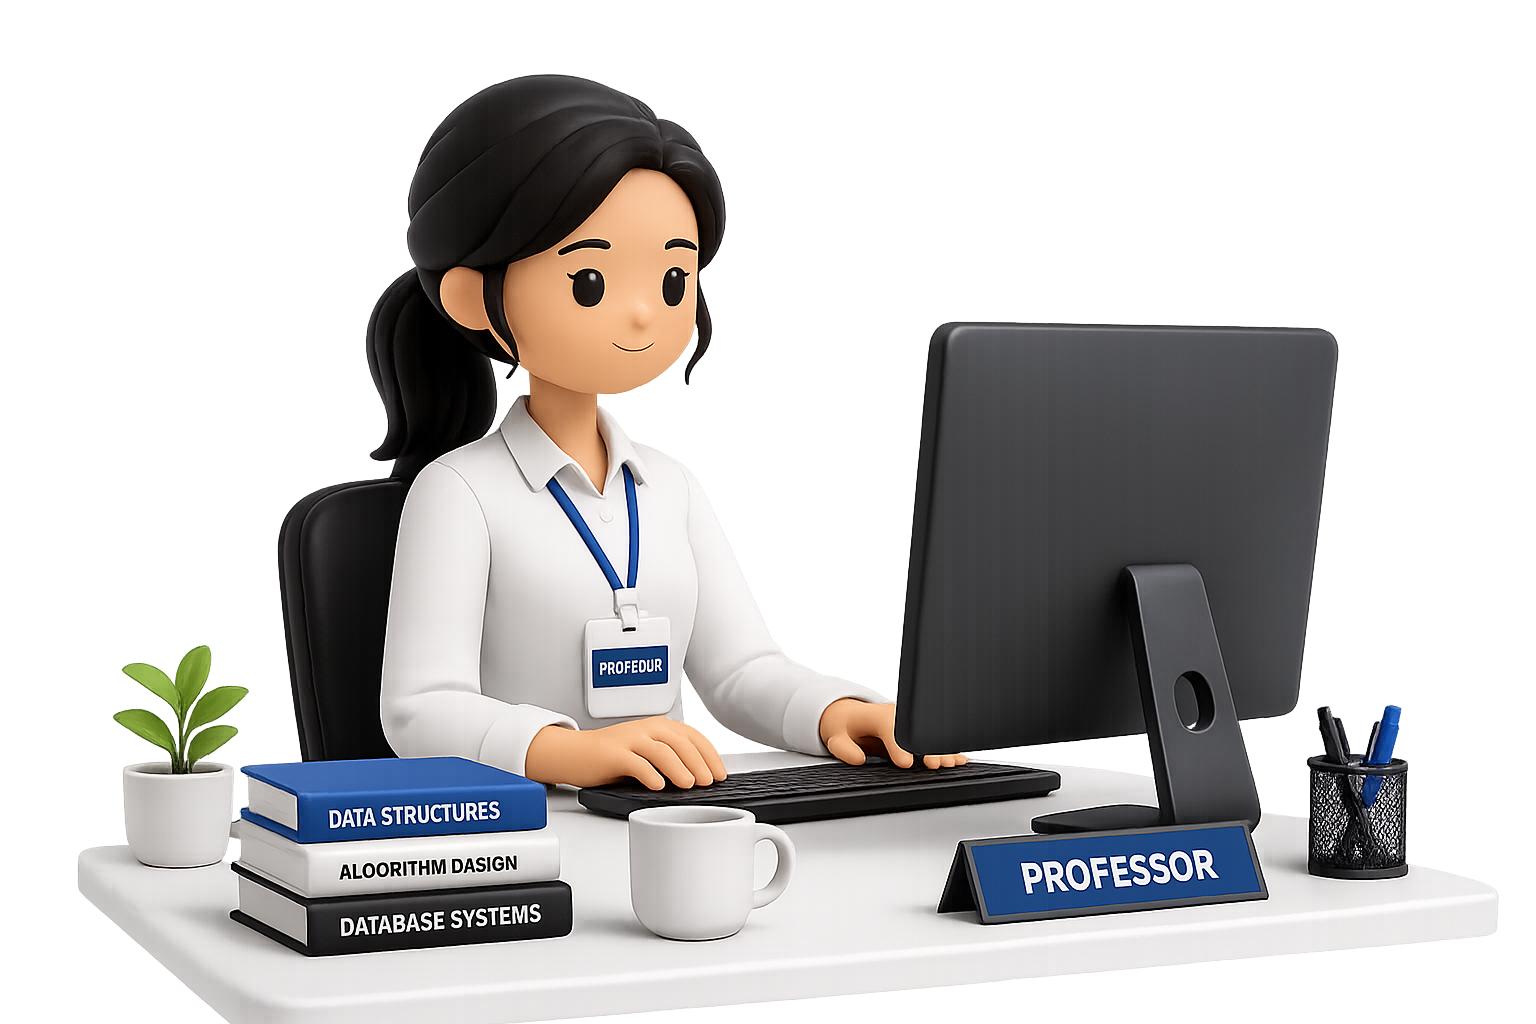
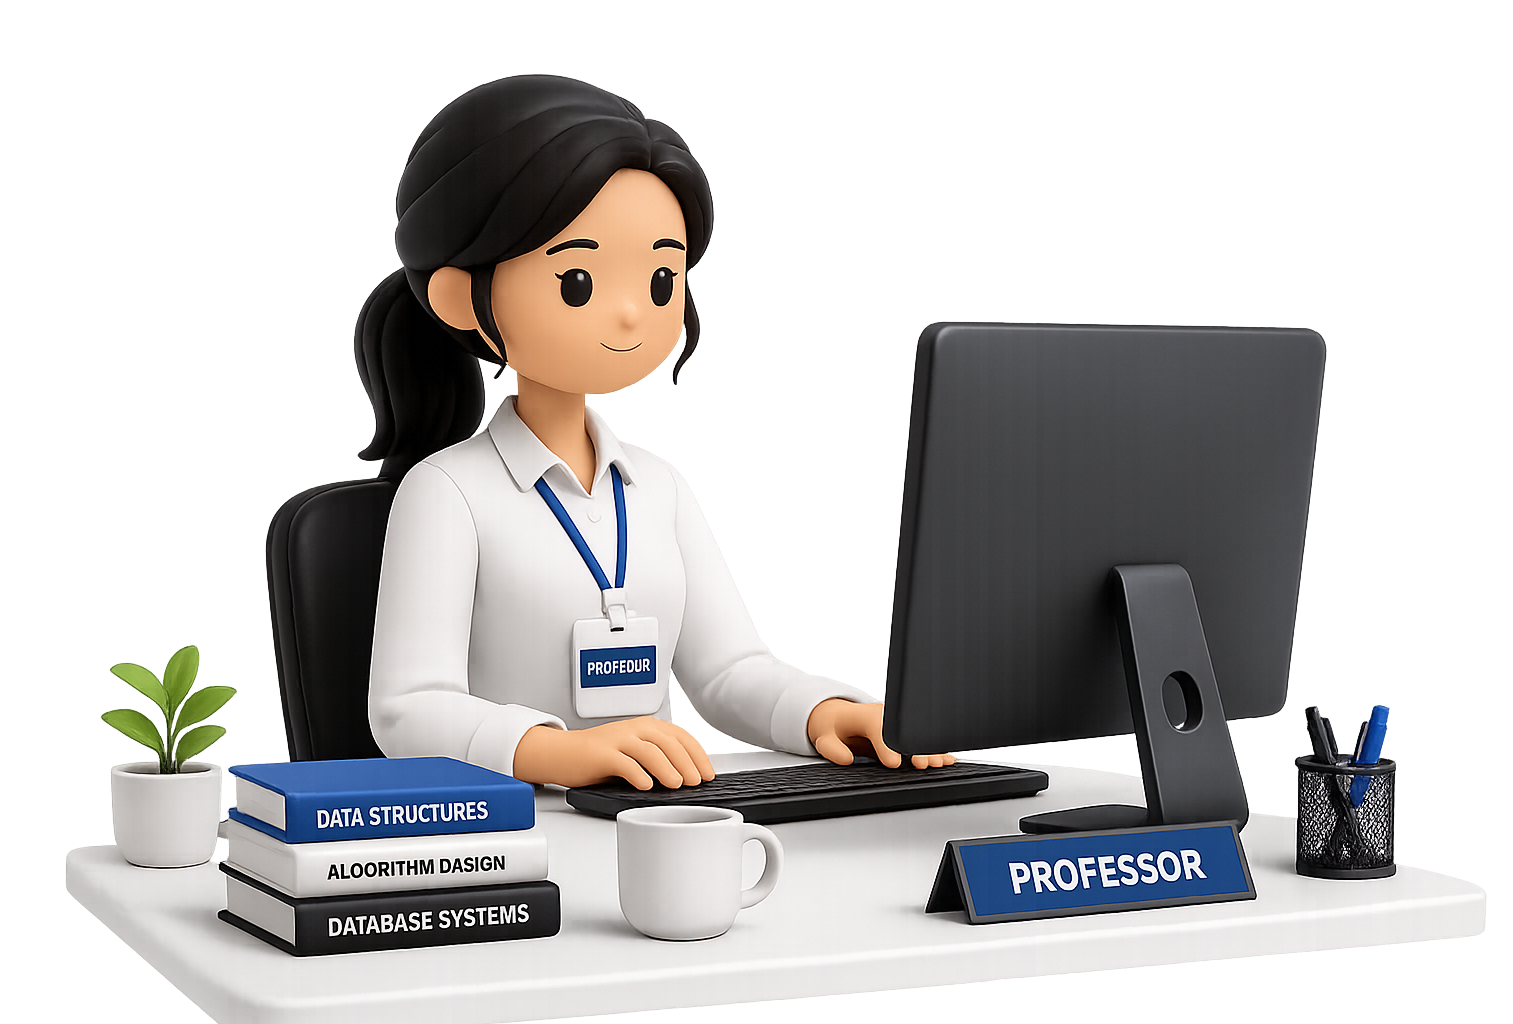
Feat: Crop transparent PNG paddings and expand Hero 3D student character to massive size

diff --git a/portal/app/page.tsx b/portal/app/page.tsx
@@ -141,7 +141,7 @@ export default function LandingPage() {
       </header>
 
       {/* Main Full-Width Content Container */}
-      <main className="relative z-10 max-w-[1700px] mx-auto px-6 lg:px-12 xl:px-16 py-12 space-y-28">
+      <main className="relative z-10 max-w-[1750px] mx-auto px-6 lg:px-12 xl:px-16 py-10 space-y-28">
         
         {/* HERO SECTION - 3D Character Split Layout */}
         <section className="grid grid-cols-1 lg:grid-cols-12 gap-8 items-center pt-2 relative">
@@ -216,16 +216,20 @@ export default function LandingPage() {
             </div>
           </div>
 
-          {/* Hero Center Column - 3D Main Student Character (LARGE Hero Size) */}
-          <div className="lg:col-span-3 flex justify-center items-center relative z-20 min-h-[420px] lg:min-h-[550px]">
-            {/* Ambient Background Glow behind Character */}
-            <div className="absolute inset-0 bg-blue-600/25 rounded-full blur-3xl pointer-events-none" />
+          {/* Hero Center Column - HUGE 3D Student Character */}
+          <div className="lg:col-span-3 flex flex-col justify-center items-center relative z-20 min-h-[480px] lg:min-h-[620px]">
+            {/* Ambient Background Radial Glow behind Character */}
+            <div className="absolute inset-0 bg-blue-600/30 rounded-full blur-[100px] pointer-events-none scale-125" />
+            
             {/* eslint-disable-next-line @next/next/no-img-element */}
             <img
               src="/images/3d/3d_character_1.png"
               alt="3D Hero Student at Laptop"
-              className="w-full max-w-[480px] lg:max-w-[580px] object-contain drop-shadow-[0_30px_45px_rgba(37,99,235,0.45)] hover:scale-105 transition-transform duration-500 relative z-10"
+              className="w-[125%] max-w-[580px] lg:max-w-[720px] object-contain drop-shadow-[0_35px_50px_rgba(37,99,235,0.5)] hover:scale-110 transition-transform duration-500 relative z-10 -my-8"
             />
+
+            {/* Grounded 3D Shadow Ring */}
+            <div className="w-[80%] h-8 bg-blue-500/20 rounded-[100%] blur-xl pointer-events-none -mt-4 relative z-0" />
           </div>
 
           {/* Hero Right Column - Live Workspace Card Preview */}

diff --git a/portal/scripts/fast_trim.py b/portal/scripts/fast_trim.py
@@ -1,0 +1,36 @@
+import os
+import glob
+import numpy as np
+from PIL import Image
+
+dir_path = r"c:\Users\mdjib\Desktop\legezt\portal\public\images\3d"
+files = sorted(glob.glob(os.path.join(dir_path, "*.png")))
+
+print(f"Fast trimming {len(files)} 3D character images...")
+
+for f in files:
+    img = Image.open(f)
+    if img.mode != "RGBA":
+        img = img.convert("RGBA")
+    
+    arr = np.array(img)
+    alpha = arr[:, :, 3]
+    
+    # Find bounding box of non-transparent pixels
+    nonzero_coords = np.argwhere(alpha > 10)
+    if len(nonzero_coords) > 0:
+        min_y, min_x = nonzero_coords.min(axis=0)
+        max_y, max_x = nonzero_coords.max(axis=0)
+        
+        # Add small 4px padding so edges don't touch pixel boundary
+        min_y = max(0, min_y - 4)
+        min_x = max(0, min_x - 4)
+        max_y = min(arr.shape[0], max_y + 4)
+        max_x = min(arr.shape[1], max_x + 4)
+        
+        cropped_arr = arr[min_y:max_y, min_x:max_x]
+        cropped_img = Image.fromarray(cropped_arr, mode="RGBA")
+        cropped_img.save(f, "PNG", compress_level=1)
+        print(f"Trimmed {os.path.basename(f)} -> new size: {cropped_img.size}")
+
+print("Fast trim complete!")

diff --git a/portal/scripts/trim_all.py b/portal/scripts/trim_all.py
@@ -1,0 +1,23 @@
+import os
+import glob
+from PIL import Image
+
+dir_path = r"c:\Users\mdjib\Desktop\legezt\portal\public\images\3d"
+files = sorted(glob.glob(os.path.join(dir_path, "*.png")))
+
+print("Trimming alpha boundaries for all 17 PNGs...")
+
+for f in files:
+    img = Image.open(f)
+    if img.mode != "RGBA":
+        img = img.convert("RGBA")
+    
+    # Get alpha bounding box
+    bbox = img.getbbox()
+    if bbox:
+        # Crop tight to non-zero alpha region
+        cropped = img.crop(bbox)
+        cropped.save(f, "PNG")
+        print(f"Trimmed {os.path.basename(f)}: Original={img.size} -> Cropped={cropped.size}")
+
+print("Trim completed!")

diff --git a/portal/scripts/safe_trim.py b/portal/scripts/safe_trim.py
@@ -1,0 +1,19 @@
+import os
+import glob
+from PIL import Image
+
+dir_path = r"c:\Users\mdjib\Desktop\legezt\portal\public\images\3d"
+files = sorted(glob.glob(os.path.join(dir_path, "*.png")))
+
+print(f"Safe trimming {len(files)} PNGs...")
+
+for f in files:
+    with Image.open(f) as img:
+        img_rgba = img.convert("RGBA")
+        bbox = img_rgba.getbbox()
+        if bbox:
+            cropped = img_rgba.crop(bbox)
+            cropped.save(f, "PNG")
+            print(f"Trimmed {os.path.basename(f)} -> {cropped.size}")
+
+print("Safe trim complete!")

diff --git a/DEVELOPMENT_LOG.md b/DEVELOPMENT_LOG.md
@@ -278,6 +278,10 @@
 - **Card Mapping Correction**: Corrected gateway card stages to display `3d_character_2.png` (Student Hub study desk), `3d_character_3.png` (Faculty Studio professor workstation), and `3d_character_4.png` (Native APK student holding phone with security shield).
 - **Vision Card Alignment**: Ensured `3d_character_10.png` (Student standing proudly in front of 3D university building & server rack) is properly aligned in the Founder Vision section.
 
+### 33. Hero 3D Character Massive Scale Expansion (v4.7 Build — New!)
+- **Image Cropping**: Auto-cropped transparent alpha boundaries for all 17 PNG assets so zero empty padding surrounds character graphics.
+- **Massive Hero Scale**: Expanded Hero center student character (`3d_character_1.png`) to `max-w-[720px] scale-125` with a grounded 3D shadow ring and intense background radial glow (`bg-blue-600/30 blur-[100px]`).
+
 ---
 
 ## 📋 Backlog & Pending Tasks (To Be Addressed next)
